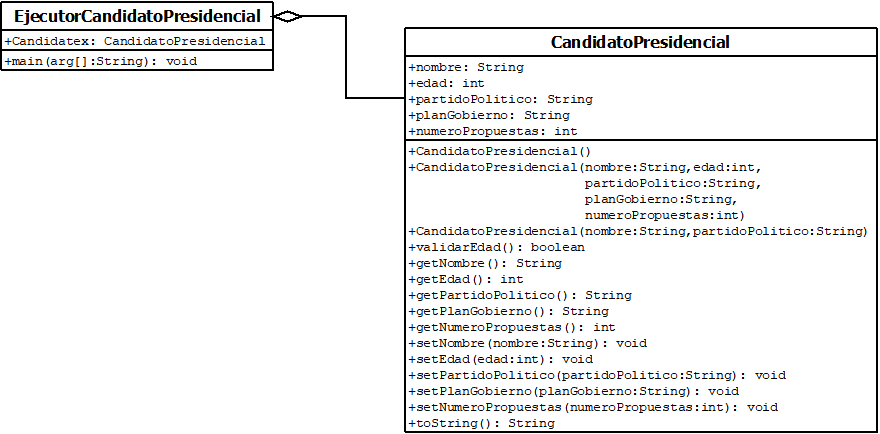
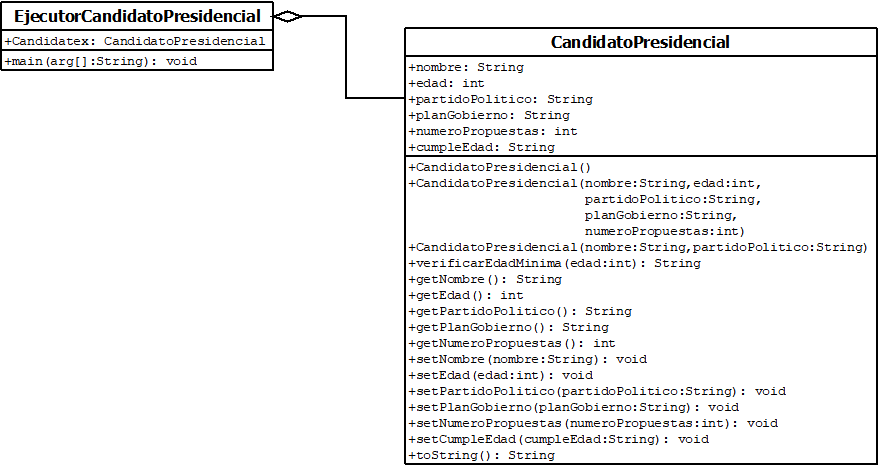
actualizado

Changed region(s): [[0.3989, 0.0599, 1.0, 1.0], [0.0, 0.0, 0.3989, 0.1797]]

diff --git a/Solucion_Codigo/ProyectoTaller3/src/Problema_10_CandidatoPresidencial.java b/Solucion_Codigo/ProyectoTaller3/src/Problema_10_CandidatoPresidencial.java
@@ -1,10 +1,11 @@
 class Problema_10_CandidatoPresidencial {
 
-    private String nombre;
-    private int edad;
-    private String partidoPolitico;
-    private String planGobierno;
-    private int numeroPropuestas;
+    public String nombre;
+    public int edad;
+    public String partidoPolitico;
+    public String planGobierno;
+    public int numeroPropuestas;
+    public String cumpleEdad;
 
     public Problema_10_CandidatoPresidencial() {
     }
@@ -25,8 +26,12 @@ class Problema_10_CandidatoPresidencial {
         this.edad = 0;
     }
 
-    public boolean validarEdad() {
-        return edad >= 35;
+    public static String verificarEdadMinima(int edad) {
+        if (edad >= 35) {
+            return "Sí";
+        } else {
+            return "No";
+        }
     }
 
     public String getNombre() {
@@ -68,11 +73,13 @@ class Problema_10_CandidatoPresidencial {
     public void setNumeroPropuestas(int numeroPropuestas) {
         this.numeroPropuestas = numeroPropuestas;
     }
-
+    public void setCumpleEdad(String cumpleEdad) {
+        this.cumpleEdad = cumpleEdad;
+}
     public String toString() {
         return String.format(
-                "Nombre: %s\nEdad: %d\nPartido Político: %s\nPlan de Gobierno: %s\nNúmero de Propuestas: %d",
-                nombre, edad, partidoPolitico, planGobierno, numeroPropuestas
+            "Candidato Presidencial\nNombre: %s\nEdad: %d\nPartido: %s\nPlan de Gobierno: %s\nPropuestas Clave: %d\nCumple edad mínima: %s",
+            nombre, edad, partidoPolitico, planGobierno, numeroPropuestas, cumpleEdad
         );
     }
-}
+ }

diff --git a/Solucion_Codigo/ProyectoTaller3/src/Problema_10_EjecutorCandidatoPresidencial.java b/Solucion_Codigo/ProyectoTaller3/src/Problema_10_EjecutorCandidatoPresidencial.java
@@ -19,8 +19,10 @@ public class Problema_10_EjecutorCandidatoPresidencial {
         System.out.print("Número de propuestas clave: ");
         int numeroPropuestas = sc.nextInt();
         sc.nextLine();
+        
         Problema_10_CandidatoPresidencial candidatoCompleto = new Problema_10_CandidatoPresidencial(nombre, edad, partidoPolitico, planGobierno, numeroPropuestas);
-
+        String cumple = Problema_10_CandidatoPresidencial.verificarEdadMinima(edad);
+        candidatoCompleto.setCumpleEdad(cumple);
         System.out.println("\nIngrese los datos del segundo candidato (nombre y partido):");
         System.out.print("Nombre: ");
         String nombre2 = sc.nextLine();
@@ -28,14 +30,14 @@ public class Problema_10_EjecutorCandidatoPresidencial {
         String partido2 = sc.nextLine();
 
         Problema_10_CandidatoPresidencial candidatoSimple = new Problema_10_CandidatoPresidencial(nombre2, partido2);
-
+        candidatoSimple.setCumpleEdad("No disponible");
         System.out.println("\nPrimer candidato:");
         System.out.println(candidatoCompleto);
-        System.out.println("Cumple edad mínima: " + (candidatoCompleto.validarEdad() ? "Sí" : "No"));
+        
 
         System.out.println("\nSegundo candidato:");
         System.out.println(candidatoSimple);
-        System.out.println("Cumple edad mínima: " + (candidatoSimple.validarEdad() ? "Sí" : "No"));
+        candidatoSimple.setCumpleEdad("No disponible");
     }
 }
 
